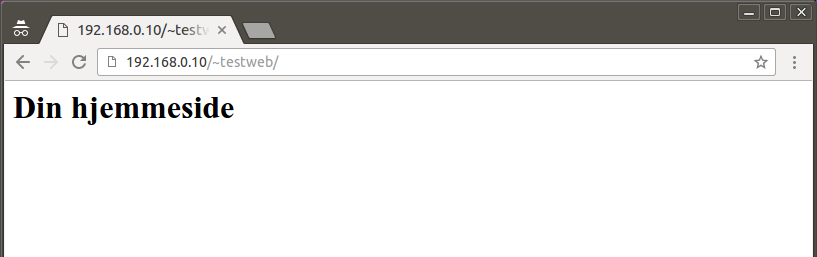
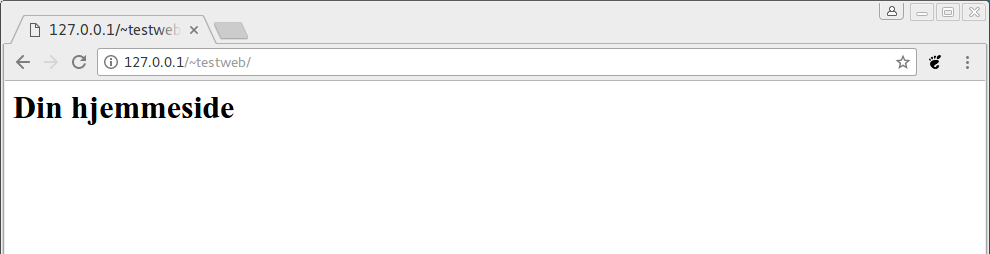
1

Changed region(s): [[0.0, 0.0, 1.0, 1.0]]

diff --git a/guides/webserver.html b/guides/webserver.html
@@ -214,9 +214,11 @@ drwxr-xr-x 3 root root  4096 maj 27 01:05 ..
 <code class="more_cmd">sudo chmod 705 -R /var/www/html</code>
 
 <pre class="ubuntu_terminal">
-<span class="green1">tj@tj-VirtualBox</span>:<span class="blue1">~</span>$ ls -l /var/www/html/
-totalt 16
--rwx---r-x 1 tj tj 11321 jul  3 20:01 <span class="green1">index.html</span>
+<span class="green1">tj@tj-VirtualBox</span>:<span class="blue1">~</span>$ ls -al /var/www/html
+totalt 20
+drwx---r-x 2 tj   tj    4096 maj 27 01:45 .
+drwxr-xr-x 3 root root  4096 maj 27 01:05 ..
+-rwx---r-x 1 tj   tj   11321 maj 27 01:05 <span class="green1">index.html</span>
 </pre>
 
 <p>Læg mærke til at man bliver nød til at bruge den fulde sti til mappen for at se indholdet. Hvis man viser en liste ved at bruge det symbolske link sker der følgende:</p>
@@ -237,7 +239,6 @@ lrwxrwxrwx 1 tj tj 14 maj 27 01:50 <span class="turk">/home/tj/html</span> -> <s
 &lt;html xmlns="http://www.w3.org/1999/xhtml">
   &lt;!--
     Modified from the Debian original for Ubuntu
-
 </pre>
 
 
@@ -248,13 +249,13 @@ lrwxrwxrwx 1 tj tj 14 maj 27 01:50 <span class="turk">/home/tj/html</span> -> <s
 <p>Alle brugere bliver oprettet ud fra en skabelon som ligger i <span class="inl_cmd">/etc/skel</span>.</p>
 
 <pre class="ubuntu_terminal">
-tj@tjmainsrv:/etc/skel$ ls -al
-total 20
-drwxr-xr-x  2 root root 4096 dec  4 08:08 .
-drwxr-xr-x 98 root root 4096 dec 16 11:30 ..
--rw-r--r--  1 root root  220 apr  9  2014 .bash_logout
--rw-r--r--  1 root root 3637 apr  9  2014 .bashrc
--rw-r--r--  1 root root  675 apr  9  2014 .profile
+<span class="green1">tj@tj-VirtualBox</span>:<span class="blue1">~</span>$ ls -al /etc/skel
+totalt 28
+drwxr-xr-x   2 root root  4096 maj 27 00:58 .
+drwxr-xr-x 139 root root 12288 maj 27 10:56 ..
+-rw-r--r--   1 root root   220 sep  1  2015 .bash_logout
+-rw-r--r--   1 root root  3771 sep  1  2015 .bashrc
+-rw-r--r--   1 root root   655 jun 24  2016 .profile
 </pre>
 
 <p>I denne mappe skal vi have oprettet en privat www-mappe, som vi kalder <span class="inl_cmd">public_html</span>. I denne mappe læger vi mapperne: <span class="inl_cmd">images</span> til billeder, <span class="inl_cmd">css</span> til CSS filer og <span class="inl_cmd">js</span> til Javascript filer.</p>
@@ -287,7 +288,7 @@ drwxr-xr-x 98 root root 4096 dec 16 11:30 ..
 ├── [-rw-r--r-- root    ]  .bashrc
 └── [-rw-r--r-- root    ]  .profile
 
-4 directories, 5 files
+4 directories, 4 files
 </pre>
 
 <p>På webservere er det normen at man giver filerne 705 rettigheder. På den måde har ejeren af mappen læse, skrive og udføre på alle filer, men alle kan læse og udføre når de åbner filen i en browser.</p>
@@ -330,11 +331,11 @@ drwxr-xr-x 98 root root 4096 dec 16 11:30 ..
 
 <code class="more_cmd">sudo service apache2 reload</code>
 
-<p>Test ved at oprette brugeren <span class="inl_cmd">testweb</span> og naviger til <span class="inl_cmd">192.168.0.10/~testweb</span> i en browser og tilgå brugerens mappe over FTP. Vær opmærksom på at det kun er brugere, der er oprettet efter ændringen der får oprettet disse mapper.</p>
+<p>Test ved at oprette brugeren <span class="inl_cmd">testweb</span> og naviger til <span class="inl_cmd">127.0.0.1/~testweb</span> i en browser og tilgå brugerens mappe over FTP. Vær opmærksom på at det kun er brugere, der er oprettet efter ændringen der får oprettet disse mapper.</p>
 
 <code class="cmd">sudo adduser testweb</code>
 
-<p>Åbn browseren og sæt adressen til <span class="inl_cmd">192.168.0.10\~testweb</span> for at test den personlige hjemmeside.</p>
+<p>Åbn browseren og sæt adressen til <span class="inl_cmd">127.0.0.1\~testweb</span> for at test den personlige hjemmeside.</p>
 
 <figure id="">
 
@@ -349,6 +350,16 @@ drwxr-xr-x 98 root root 4096 dec 16 11:30 ..
 <code class="cmd">cp -R /etc/skel/public_html /home/tj</code>
 
 <code class="more_cmd">chown -R tj:tj /home/tj/public_html/</code>
+
+<p>Tjek at det virker:</p>
+
+<figure id="">
+
+	<img class="p90" src="images/webserver_kontroller_apache_lokal_bruger01.png" alt="" title="" />
+
+	<figcaption></figcaption>
+
+</figure>
 
 <h1>mariaDB og PHPMyAdmin</h1>
 
@@ -458,7 +469,7 @@ Thanks for using MariaDB!
 </ol>
 <p></p>
 
-<p>Vælg <span class="inl_cmd">Apache2</span> og vælg <span class="terminal_valg">O.k.</span></p>
+<p>Vælg <span class="inl_cmd">Apache2</span> med piletasterne og gå ned til  <span class="terminal_valg">O.k.</span> ved at trykke på <kbd>Tab</kbd>. Gennemfør dine valg ved hjælp af <kbd>Enter</kbd>.</p>
 
 <figure id="">
 
@@ -478,7 +489,7 @@ Thanks for using MariaDB!
 
 </figure>
 
-<p>Indtast password 2 gange (her vælger jeg <span class="inl_cmd">123qwe</span>) til PHPMyAdmins root-konto: </p>
+<p>Indtast password 2 gange  til PHPMyAdmins root-konto. I denne testopstilling vælger jeg vælger jeg <span class="inl_cmd">123qwe</span>. </p>
 
 <figure id="">
 
@@ -513,9 +524,9 @@ MariaDB [(none)]>
 
 <p>Herefter køres følgende kommandoer i <span class="inl_cmd">mysql</span>. Husk at afslutte kommandoerne med <span class="inl_cmd">;</span>:</p>
 
-<code class="cmd">use mysql;</code>
-<code class="more_cmd">update user set plugin='' where User='root';</code>
-<code class="more_cmd">flush privileges;</code>
+<code class="cmd">USE mysql;</code>
+<code class="more_cmd">UPDATE user SET plugin='' WHERE user='root';</code>
+<code class="more_cmd">FLUSH PRIVILEGES;</code>
 <code class="more_cmd">exit</code>
 
 

diff --git a/css/code_new.css b/css/code_new.css
@@ -22,14 +22,13 @@ white-space: pre-wrap;
 code.cmd {
 
 font-family: ubuntu mono, mono-type;
-display:inline-block;
+display:block;
 font-size: 1.05em;
 font-weight: 100;
-padding: .5em 1em;
-margin: 8px 10px 20px 0px;
+padding: 0.5em 1em;
+margin: .8em 1em .8em 1em;
 color: #404040;
 background-color: #D8D8D8 ;
-width: 880px;
 border-left-style: ridge;
 border-left-width: .5em;
 white-space: pre-wrap;
@@ -39,14 +38,13 @@ white-space: pre-wrap;
 code.more_cmd {
 
 font-family: ubuntu mono, mono-type;
-display:inline-block;
+display:block;
 font-size: 1.05em;
 font-weight: 100;
-padding: .5em 1em;
-margin: -3px 10px 20px 0px;
+padding: 0.5em 1em;
+margin: -.1em 1em .8em 1em;
 color: #404040;
 background-color: #D8D8D8 ;
-width: 880px;
 border-left-style: ridge;
 border-left-width: .5em;
 white-space: pre-wrap;
